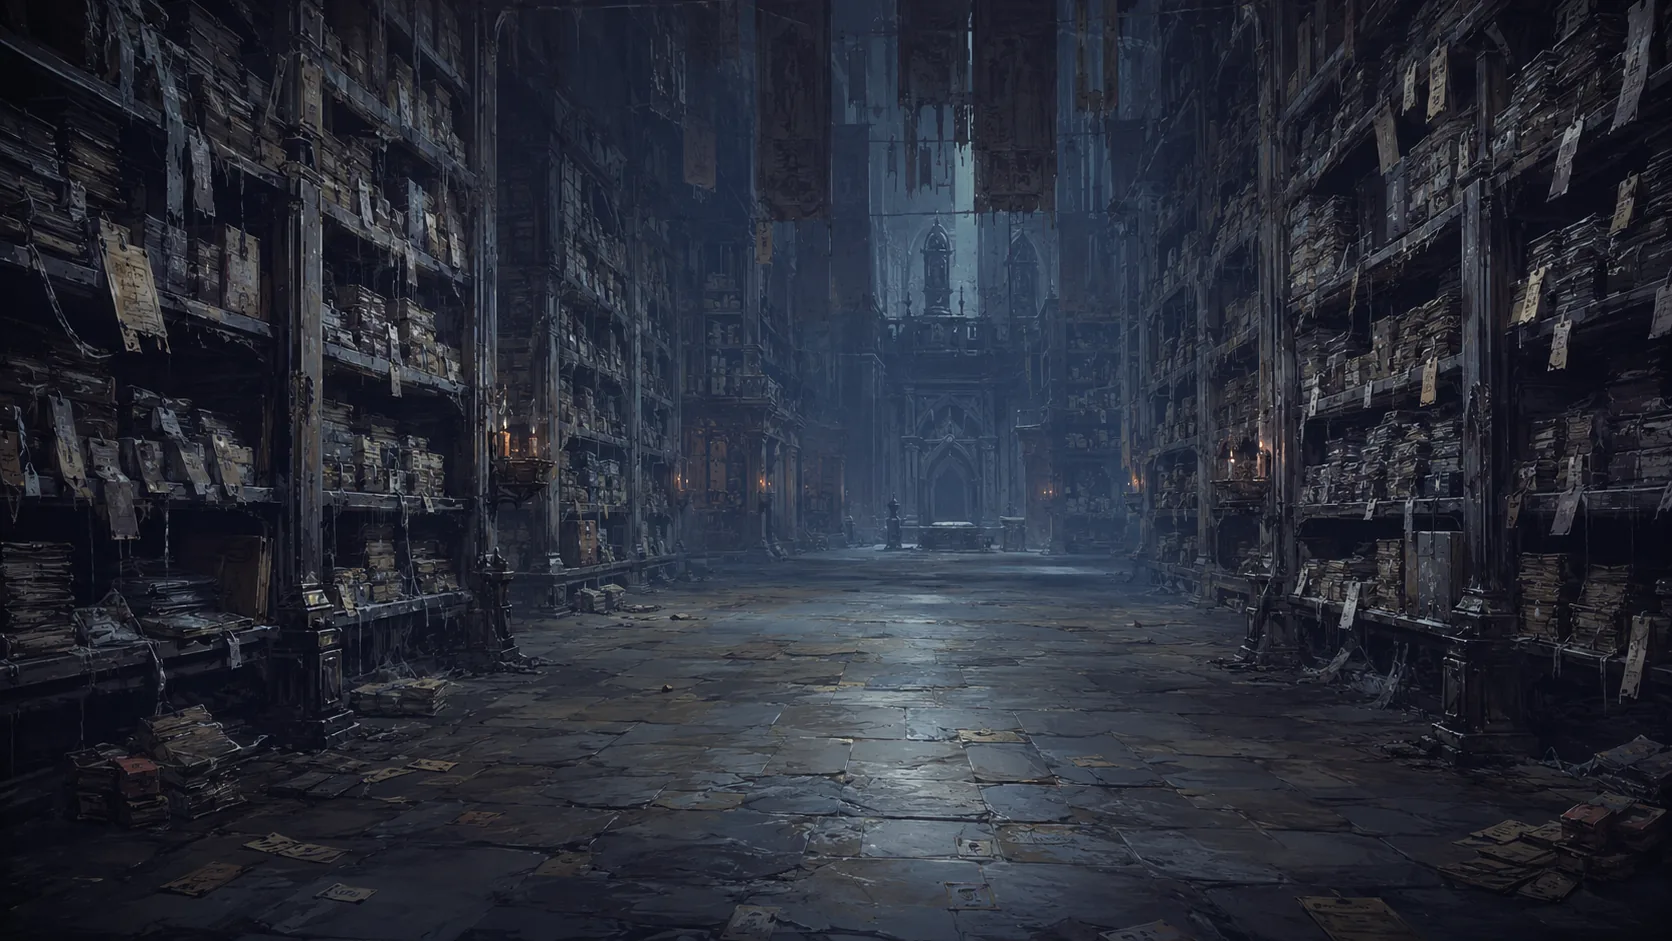
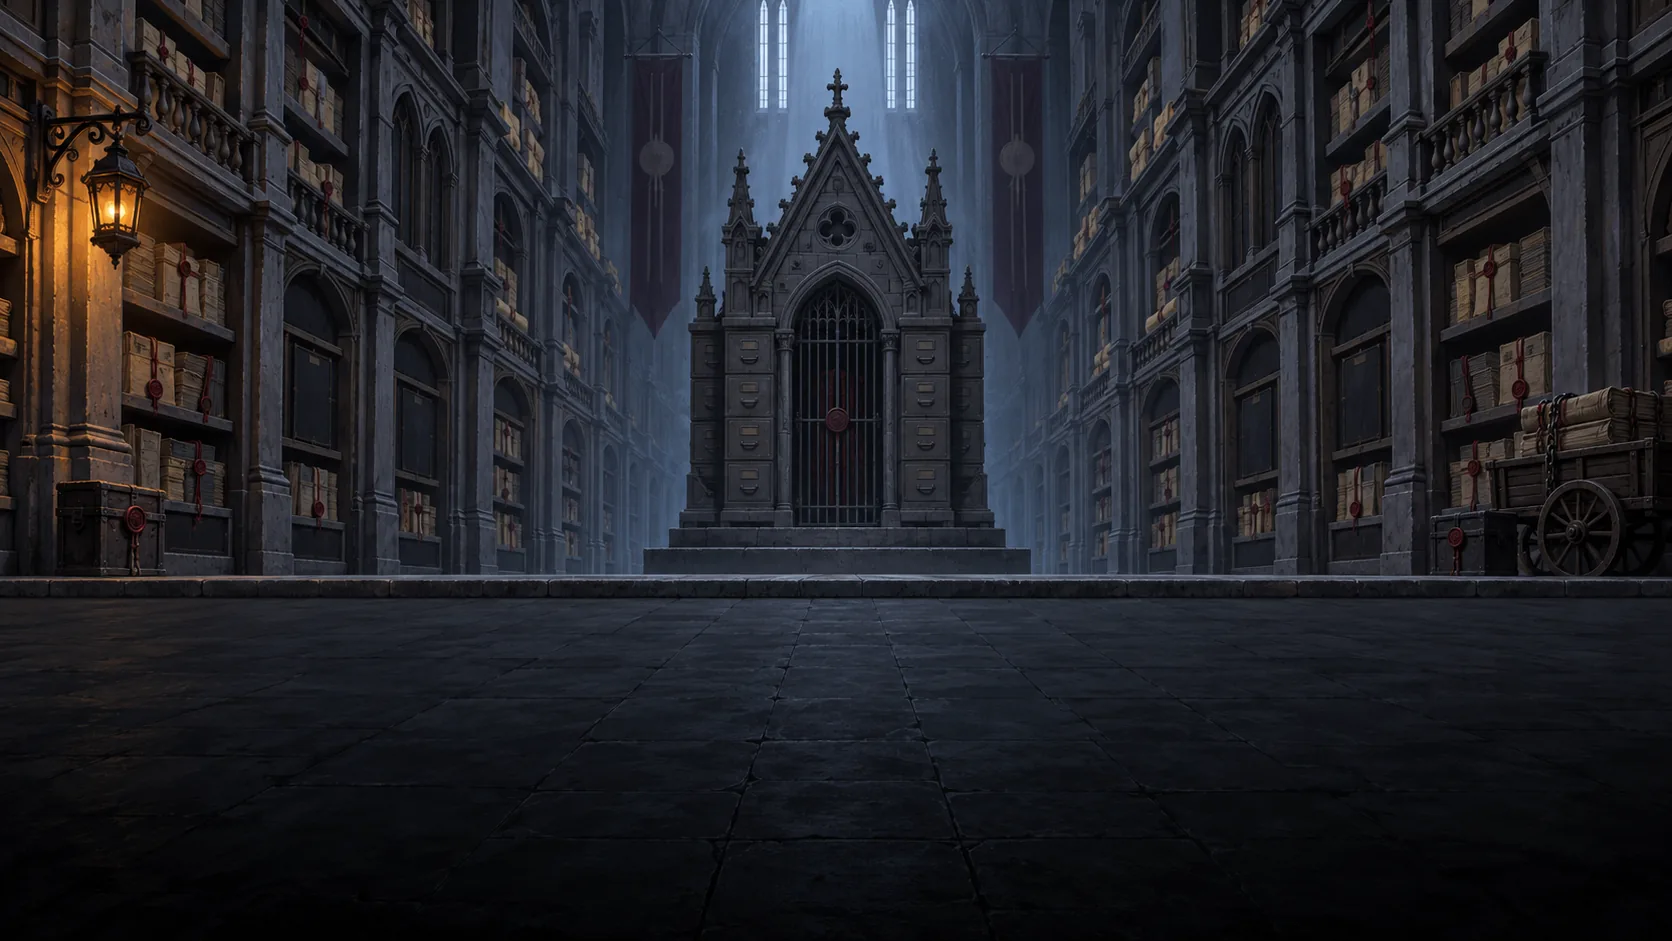
Act 2 RONDE 3, deel 1 (v126): Gevechtstijl3act2 en 4act2 hergenereerd op de toneelstandaard, GROND 69/67 -> 65/62; gemeten 0,0-0,3% op laptop en mobiel, 2D-suite 71 en 3D-suite 35 groen; 2act2 afgekeurd (nissen tot 70%) en het promptblok aangescherpt voor de re-roll

diff --git a/js/art.js b/js/art.js
@@ -773,8 +773,8 @@ const GROND = {
   /* --- Act 2 — Het Archief --- */
   'Act 2 achtergronden/Gevechtstijl1act2.webp': { grond: 61 },                     /* v116: hergenereerd op de toneelstandaard (vloerrand 56%) */
   'Act 2 achtergronden/Gevechtstijl2act2.webp': { grond: 68, midden: 57 },
-  'Act 2 achtergronden/Gevechtstijl3act2.webp': { grond: 69, midden: 57 },         /* kastenwand tot 72% */
-  'Act 2 achtergronden/Gevechtstijl4act2.webp': { grond: 67, midden: 57 },         /* boek links-vooraan achter de held */
+  'Act 2 achtergronden/Gevechtstijl3act2.webp': { grond: 65 },                     /* v126: hergenereerd (RONDE 3); de stenen vloerlip ligt op 62% i.p.v. 56%, voeten 3% ervoor */
+  'Act 2 achtergronden/Gevechtstijl4act2.webp': { grond: 62 },                     /* v126: hergenereerd op de toneelstandaard (RONDE 3), vloerrand 59% */
   'Act 2 achtergronden/Gevechtstijl5act2.webp': { grond: 61, midden: 56 },         /* toneelstandaard: vloerrand 56% */
   'Act 2 achtergronden/Gevechtstijl act2 EPISCH 1.webp': { grond: 61 },            /* v116: hergenereerd op de toneelstandaard */
   'Act 2 achtergronden/Gevechtstijl act2 EPISCH 2.webp': { grond: 61 },            /* v116: hergenereerd op de toneelstandaard */

diff --git a/sw.js b/sw.js
@@ -2,7 +2,7 @@
    Code (html/js/css): network-first — online krijg je altijd de nieuwste versie.
    Art (assets/): cache-first — afbeeldingen veranderen niet, dus herbezoeken
    laden vrijwel instant. Offline werkt alles vanuit de cache. */
-const CACHE = 'slayit-v125'; // v125: de outro-pimprondes uit PR #2 gered - Middenmanager, sloopketting, dubbeljump, kleurpass, B.A.A.S.-knipoog
+const CACHE = 'slayit-v126'; // v126: Act 2 RONDE 3 deel 1 - de doorslaggang (3act2) en de eedzaal (4act2) hergenereerd op de toneelstandaard, GROND 69/67 -> 65/62
 const BESTANDEN = [
   '.',
   'css/style.css',
